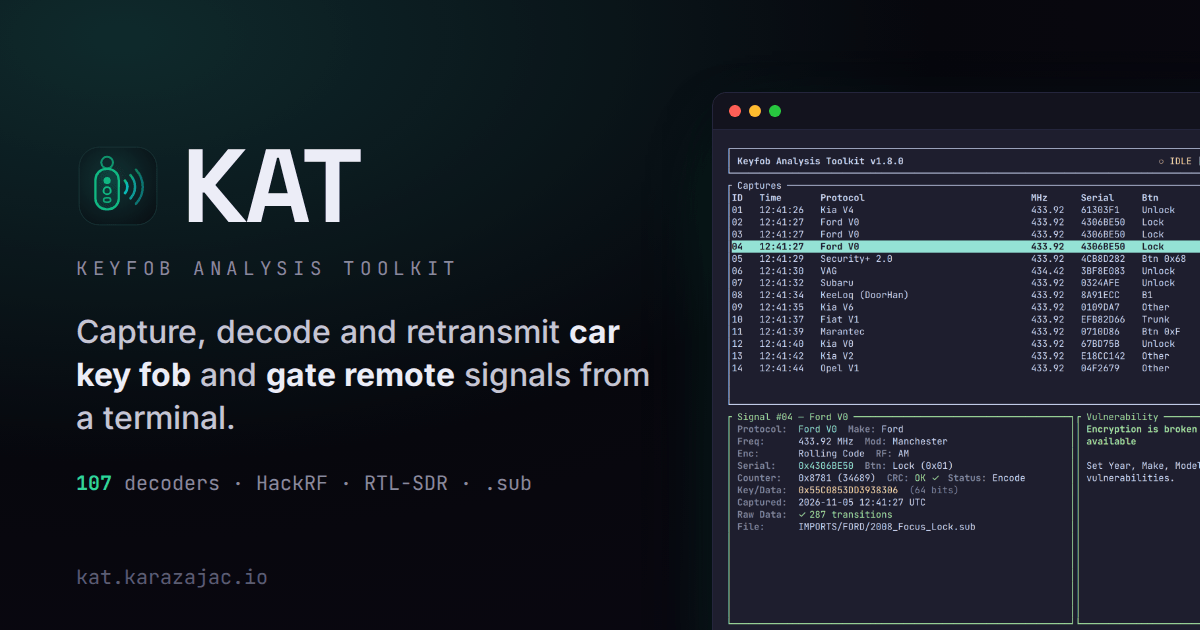
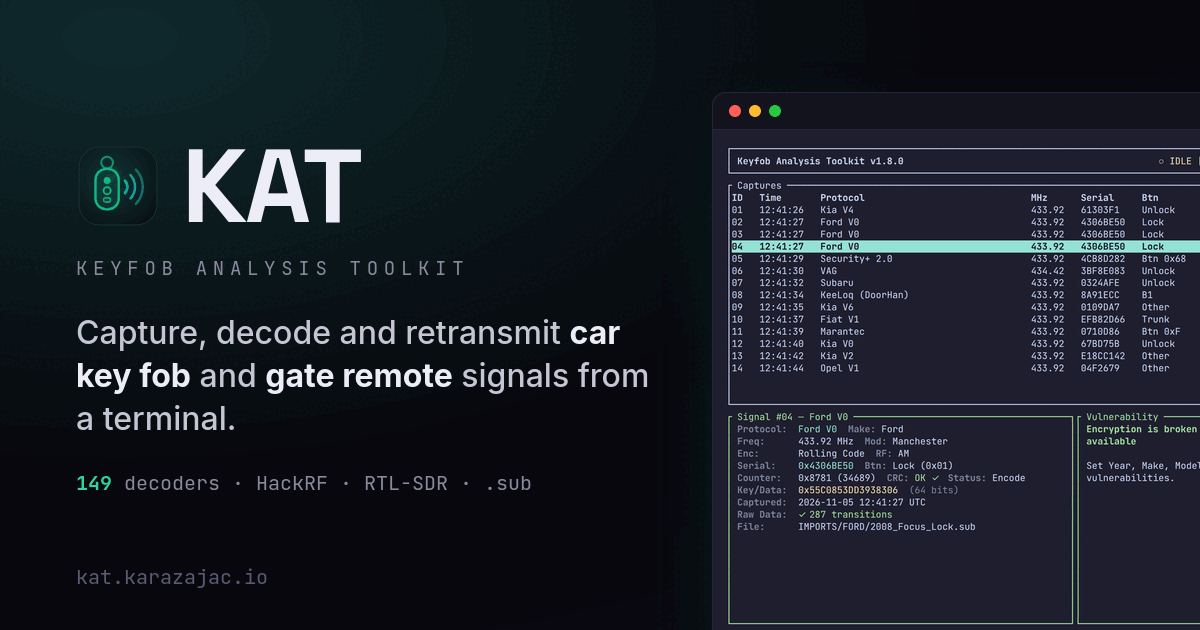
docs: v1.9.0 downloads in the README, current counts on the site
- README: the install steps named the v1.8.6 files; they name v1.9.0's.
  The source tree's counts: 69 gate, garage, shutter, doorbell, sensor
  and key-finder protocols (was 54), 17 rtl_433 ports (was 16).
- Site: the page description and the share card (og-card.html, og.png
  rendered again at 1200 x 630) said 107 decoders; now 149.

Claude-Session: https://claude.ai/code/session_01RVNzQQfWQfSgMyBfcvSSY8

diff --git a/docs/index.html b/docs/index.html
@@ -4,10 +4,10 @@
 <meta charset="UTF-8">
 <meta name="viewport" content="width=device-width, initial-scale=1.0">
 <title>KAT — Keyfob Analysis Toolkit</title>
-<meta name="description" content="KAT captures, decodes and retransmits car key fob and garage door, gate, barrier and shutter remote signals from a terminal, with a HackRF One or an RTL-SDR, and decodes IQ recordings and Flipper Zero .sub files with no radio attached. 107 protocol decoders. BSD-3-Clause.">
+<meta name="description" content="KAT captures, decodes and retransmits car key fob and garage door, gate, barrier and shutter remote signals from a terminal, with a HackRF One or an RTL-SDR, and decodes IQ recordings and Flipper Zero .sub files with no radio attached. 149 protocol decoders. BSD-3-Clause.">
 <link rel="canonical" href="https://kat.karazajac.io/">
 <meta property="og:title" content="KAT — Keyfob Analysis Toolkit">
-<meta property="og:description" content="Capture, decode and retransmit car key fob and gate remote signals from a terminal, with a HackRF One or an RTL-SDR, or from recordings and Flipper .sub files. 107 protocol decoders.">
+<meta property="og:description" content="Capture, decode and retransmit car key fob and gate remote signals from a terminal, with a HackRF One or an RTL-SDR, or from recordings and Flipper .sub files. 149 protocol decoders.">
 <meta property="og:type" content="website">
 <meta property="og:url" content="https://kat.karazajac.io/">
 <meta property="og:image" content="https://kat.karazajac.io/og.png">

diff --git a/docs/og-card.html b/docs/og-card.html
@@ -84,7 +84,7 @@
     <div class="brand"><img src="logo.svg" alt=""><span class="name">KAT</span></div>
     <div class="sub">KEYFOB ANALYSIS TOOLKIT</div>
     <div class="tag">Capture, decode and retransmit <b>car key fob</b> and <b>gate remote</b> signals from a terminal.</div>
-    <div class="facts"><b>107</b> decoders · HackRF · RTL-SDR · .sub</div>
+    <div class="facts"><b>149</b> decoders · HackRF · RTL-SDR · .sub</div>
   </div>
   <div class="url">kat.karazajac.io</div>
   <div class="win">

diff --git a/README.md b/README.md
@@ -88,18 +88,18 @@ On Windows there is nothing to install here: the `.zip` carries the HackRF libra
 Then check, unpack and run (with your version and platform):
 
 ```bash
-sha256sum -c kat-v1.8.6-x86_64-linux.tar.gz.sha256    # macOS: shasum -a 256 -c …
-tar xzf kat-v1.8.6-x86_64-linux.tar.gz
-./kat-v1.8.6-x86_64-linux/kat
+sha256sum -c kat-v1.9.0-x86_64-linux.tar.gz.sha256    # macOS: shasum -a 256 -c …
+tar xzf kat-v1.9.0-x86_64-linux.tar.gz
+./kat-v1.9.0-x86_64-linux/kat
 ```
 
 On Windows, in PowerShell (Windows Terminal):
 
 ```powershell
-$want = (Get-Content kat-v1.8.6-x86_64-windows.zip.sha256).Split(' ')[0]
-(Get-FileHash kat-v1.8.6-x86_64-windows.zip).Hash -eq $want    # True
-Expand-Archive kat-v1.8.6-x86_64-windows.zip .
-.\kat-v1.8.6-x86_64-windows\kat.exe
+$want = (Get-Content kat-v1.9.0-x86_64-windows.zip.sha256).Split(' ')[0]
+(Get-FileHash kat-v1.9.0-x86_64-windows.zip).Hash -eq $want    # True
+Expand-Archive kat-v1.9.0-x86_64-windows.zip .
+.\kat-v1.9.0-x86_64-windows\kat.exe
 ```
 
 The macOS binary isn't notarized, so macOS may block its first start; `xattr -d com.apple.quarantine kat` clears that. The Windows build isn't signed, so SmartScreen may stop its first start ("More info", then "Run anyway"). Intel Macs and other platforms build from source.
@@ -591,9 +591,9 @@ src/
 │   ├── bmw.rs, mercedes_v0.rs, mercedes_v1.rs, opel_v1.rs, gm.rs, mazda_v2.rs, datsun_lada.rs
 │   ├── vag_polo.rs, chevrolet_v0.rs   # FoxFW ports, decode only
 │   ├── sheriff_cfm.rs, audi.rs, mazda_infinity.rs, hyundai.rs   # hyundai: not registered
-│   ├── princeton.rs, came.rs, secplus_v2.rs, somfy_telis.rs, faac_slh.rs, …   # 54 gate, garage and shutter protocols
+│   ├── princeton.rs, came.rs, secplus_v2.rs, somfy_telis.rs, faac_slh.rs, …   # 69 gate, garage, shutter, doorbell, sensor and key-finder protocols
 │   ├── g1_common.rs … g6_common.rs, f_common.rs   # helpers shared by the gate protocols
-│   ├── alps_fwb1u545.rs, elero.rs, microchip_hcs361.rs, …   # 16 receive-only rtl_433 ports (markisol.rs: not registered)
+│   ├── alps_fwb1u545.rs, elero.rs, microchip_hcs361.rs, …   # 17 receive-only rtl_433 ports (markisol.rs: not registered)
 │   ├── rtl433/          # rtl_433's pulse detector, pulse slicers and bit buffer, shared by those ports
 │   ├── flipper_key.rs   # Flipper key-file (.sub Protocol/Bit/Key) reader and writer
 │   ├── add_manually.rs  # "Add Manually" type list and new-remote generation (ARF / doctor-firmware / RogueMaster)
